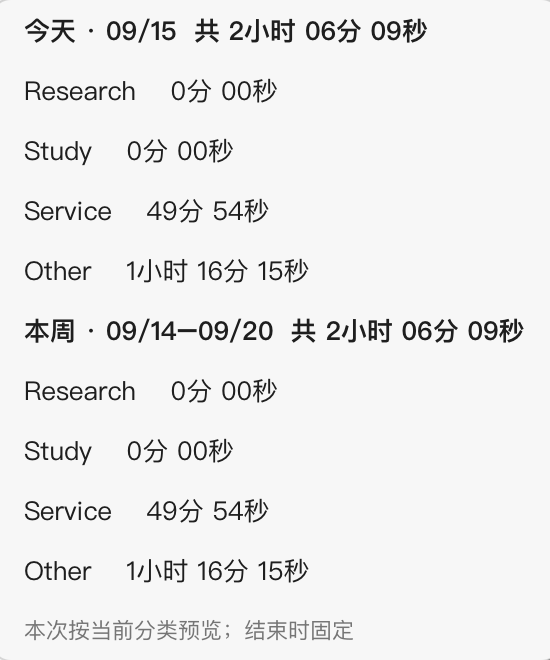
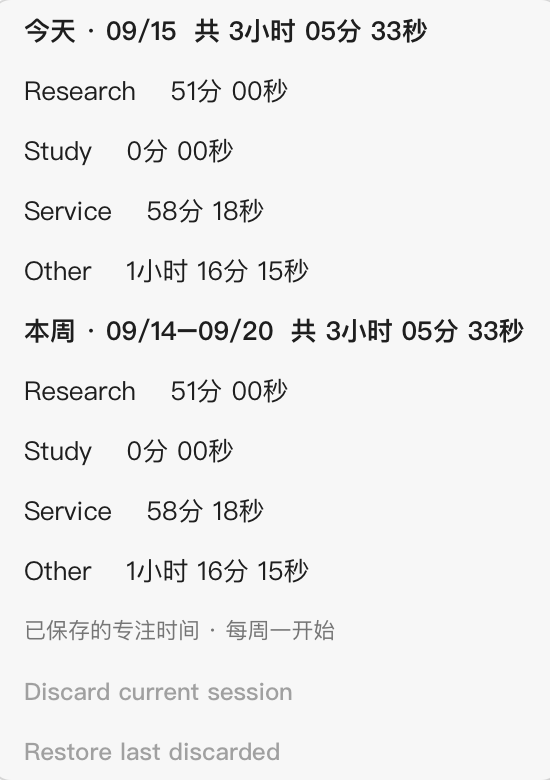
Save paused timers on right click and make discarded sessions recoverable

diff --git a/plugins/timer.py b/plugins/timer.py
@@ -66,6 +66,7 @@ def connect(data=DATA):
     db = sqlite3.connect(data / 'focus.sqlite3', timeout=15)
     db.execute('CREATE TABLE IF NOT EXISTS state (id INTEGER PRIMARY KEY, value TEXT NOT NULL)')
     db.execute('CREATE TABLE IF NOT EXISTS sessions (id INTEGER PRIMARY KEY, day TEXT NOT NULL, category TEXT NOT NULL, seconds INTEGER NOT NULL)')
+    db.execute('CREATE TABLE IF NOT EXISTS discarded_sessions (id INTEGER PRIMARY KEY, discarded_at INTEGER NOT NULL, state_json TEXT NOT NULL, restored_at INTEGER)')
     return db
 
 
@@ -97,8 +98,48 @@ def total_elapsed(state, now):
     return state['elapsed'] + (max(0, now - state['anchor']) if running(state) else 0)
 
 
+def write_session(db, state):
+    """Commit the stored working intervals using the session's final category."""
+    totals = {}
+    for day, _, seconds in state['pending']:
+        totals[day] = totals.get(day, 0) + seconds
+    db.executemany('INSERT INTO sessions(day,category,seconds) VALUES(?,?,?)',
+                   [(day, state['category'], sec) for day, sec in totals.items() if sec > 0])
+
+
+def reset(state):
+    category = state['category']
+    state.clear()
+    state.update(fresh(category))
+
+
+def save_session(db, state, now):
+    settle(state, now)
+    write_session(db, state)
+    reset(state)
+
+
+def discard_session(db, state, now):
+    if state['mode'] == 'idle':
+        return False
+    pause(state, now)
+    db.execute('INSERT INTO discarded_sessions(discarded_at,state_json) VALUES(?,?)',
+               (now, json.dumps(state)))
+    reset(state)
+    return True
+
+
+def restore_last_discarded(db, now):
+    row = db.execute('SELECT id,state_json FROM discarded_sessions WHERE restored_at IS NULL ORDER BY id DESC LIMIT 1').fetchone()
+    if not row:
+        return False
+    write_session(db, json.loads(row[1]))
+    db.execute('UPDATE discarded_sessions SET restored_at=? WHERE id=?', (now, row[0]))
+    return True
+
+
 def transition(db, state, now, name, sender, button='left', closed=False):
-    """Return (saved, sound). Caller commits state and saved rows together."""
+    """Return (refresh_focus, sound). State/history changes commit together."""
     saved = False
     # Wake must be processed before clicks/ticks so sleep cannot enter the ledger.
     if sender == 'system_woke' and running(state):
@@ -106,7 +147,11 @@ def transition(db, state, now, name, sender, button='left', closed=False):
     elif sender == 'system_will_sleep' or closed:
         pause(state, now)
 
-    if name.startswith('timer_category.') and sender == 'mouse.clicked':
+    if name == 'focus.discard' and sender == 'mouse.clicked':
+        saved = discard_session(db, state, now)
+    elif name == 'focus.restore' and sender == 'mouse.clicked':
+        saved = restore_last_discarded(db, now)
+    elif name.startswith('timer_category.') and sender == 'mouse.clicked':
         category = name.split('.', 1)[1]
         if category in CATEGORIES:
             # The selection applies to the whole open session, fixed on save.
@@ -122,23 +167,12 @@ def transition(db, state, now, name, sender, button='left', closed=False):
             if button == 'left':
                 state.update(mode=mode.removesuffix('_paused'), anchor=now)
             elif button == 'right':
-                category = state['category']
-                state.clear()
-                state.update(fresh(category))
+                save_session(db, state, now)
+                saved = True
         elif button == 'right':
             pause(state, now)
         elif button == 'left' and (mode != 'down' or total_elapsed(state, now) >= POMO):
-            settle(state, now)
-            # Keep the actual dates, but freeze the final category for every part.
-            # Ignoring pending category tags also supports pre-update open sessions.
-            totals = {}
-            for day, _, seconds in state['pending']:
-                totals[day] = totals.get(day, 0) + seconds
-            db.executemany('INSERT INTO sessions(day,category,seconds) VALUES(?,?,?)',
-                           [(day, state['category'], sec) for day, sec in totals.items() if sec > 0])
-            category = state['category']
-            state.clear()
-            state.update(fresh(category))
+            save_session(db, state, now)
             saved = True
 
     sound = False
@@ -242,6 +276,15 @@ def render_stats(db, state, now, sender):
             args += ['--set', f'focus.{period}.{cat}', f'label={label}    {human(totals[period][cat])}']
     note = '本次按当前分类预览；结束时固定' if state['mode'] != 'idle' else '已保存的专注时间 · 每周一开始'
     args += ['--set', 'focus.note', f'label={note}']
+    last = db.execute('SELECT state_json FROM discarded_sessions WHERE restored_at IS NULL ORDER BY id DESC LIMIT 1').fetchone()
+    restore_label = 'Restore last discarded'
+    if last:
+        discarded = json.loads(last[0])
+        restore_label += f" · {CATEGORIES[discarded['category']]} {duration(discarded['elapsed'])}"
+    args += ['--set', 'focus.restore', f'label={restore_label}',
+             f'label.color={"0xff1e1e1e" if last else "0x661e1e1e"}',
+             '--set', 'focus.discard',
+             f'label.color={"0xffa33b32" if state['mode'] != 'idle' else "0x661e1e1e"}']
     if sender == 'mouse.clicked':
         bar('--set', 'timer_category', 'popup.drawing=off')
         current = json.loads(subprocess.check_output(['sketchybar', '--query', 'focus']))
@@ -290,6 +333,8 @@ def main():
             bar('--set', 'timer_category', f'popup.drawing={"toggle" if sender == "mouse.clicked" else "off"}')
         elif name.startswith('timer_category.'):
             bar('--set', 'timer_category', 'popup.drawing=off')
+        if name in ('focus.discard', 'focus.restore'):
+            bar('--set', 'focus', 'popup.drawing=off', 'update_freq=0')
         if saved:
             env = dict(os.environ, NAME='focus', SENDER='timer_saved')
             subprocess.run([str(CONFIG / 'plugins/focus.sh')], env=env, check=True)

diff --git a/tests/test_timer.py b/tests/test_timer.py
@@ -51,7 +51,7 @@ class TimerTests(unittest.TestCase):
         self.event(0)
         self.event(60, 'timer_category.social')
         self.event(120, button='right')
-        self.event(121, button='right')
+        self.event(121, 'focus.discard')
         self.assertEqual(sum(self.totals(121)['week'].values()), 0)
 
     def test_midnight_and_monday_live_then_saved(self):
@@ -180,6 +180,55 @@ class TimerTests(unittest.TestCase):
         self.event(30)
         self.assertEqual(list(self.db.execute('SELECT category,seconds FROM sessions')),
                          [('social', 150)])
+
+    def test_paused_right_click_saves_for_all_timer_modes(self):
+        for mode, seconds in [('up', 60), ('down', 60), ('overtime', 1560)]:
+            with self.subTest(mode=mode):
+                self.s = t.fresh('course')
+                self.s.update(mode=mode, anchor=self.now)
+                self.event(seconds, button='right')
+                self.assertTrue(self.s['mode'].endswith('_paused'))
+                self.event(seconds + 30, button='right')
+                self.assertEqual(self.s['mode'], 'idle')
+                self.assertEqual(self.db.execute('SELECT seconds FROM sessions ORDER BY id DESC LIMIT 1').fetchone()[0], seconds)
+        self.assertEqual(self.db.execute('SELECT count(*) FROM discarded_sessions').fetchone()[0], 0)
+
+    def test_discard_restore_is_persistent_and_does_not_replace_active_timer(self):
+        self.event(0)
+        self.event(60, 'timer_category.social')
+        self.event(120, 'focus.discard')
+        self.assertEqual(self.s['mode'], 'idle')
+        self.assertEqual(sum(self.totals(120)['day'].values()), 0)
+        self.db.close()
+        self.db = t.connect(self.path)
+        self.s = t.load(self.db, self.now + 121)
+        self.event(130, 'timer_category.course')
+        self.event(140)
+        self.event(150, 'focus.restore')
+        self.assertEqual(self.s['mode'], 'up')
+        self.assertEqual(self.s['category'], 'course')
+        self.assertEqual(self.totals(150)['day']['social'], 120)
+        self.assertEqual(self.totals(150)['day']['course'], 10)
+        self.event(151, 'focus.restore')
+        self.assertEqual(self.totals(151)['day']['social'], 120)
+
+    def test_restore_discard_preserves_dates_and_final_category(self):
+        self.now = stamp('2026-09-13T23:59:00')
+        self.event(0)
+        self.event(90, 'timer_category.course')
+        self.event(120, 'focus.discard')
+        self.event(240, 'focus.restore')
+        self.assertEqual(list(self.db.execute('SELECT day,category,seconds FROM sessions')),
+                         [('2026-09-13', 'course', 60), ('2026-09-14', 'course', 60)])
+
+    def test_discard_transaction_rolls_back_archive_and_reset(self):
+        self.event(0)
+        with self.assertRaises(RuntimeError):
+            with self.db:
+                t.transition(self.db, self.s, self.now + 60, 'focus.discard', 'mouse.clicked')
+                raise RuntimeError('simulated failure')
+        self.assertEqual(t.load(self.db, self.now)['mode'], 'up')
+        self.assertEqual(self.db.execute('SELECT count(*) FROM discarded_sessions').fetchone()[0], 0)
 
     def test_transaction_rolls_back_save_and_state_together(self):
         self.event(0)

diff --git a/README.md b/README.md
@@ -25,9 +25,17 @@ A minimal macOS status bar with a categorized stopwatch, Pomodoro timer, daily/w
 | 空闲 | 开始正计时 | 开始 25 分钟番茄钟 |
 | 正计时 / 番茄超时 | 保存并结束 | 暂停 |
 | 番茄倒计时 | 继续计时 | 暂停 |
-| 暂停 | 继续 | 丢弃本次全部计时 |
+| 暂停 | 继续 | 保存并结束 |
 
 番茄钟到时播放提示音，随后显示超时长度，保存时包含前 25 分钟。合盖或系统休眠自动暂停，唤醒后手动继续。重载配置保留状态；重启电脑后恢复为暂停并排除关机时间。
+
+## 误操作与恢复
+
+暂停后右键会保存并结束，包括尚未满 25 分钟的番茄钟。丢弃操作移到了累计时长弹窗底部的 **Discard current session**，丢弃前会把本次记录存入本地回收记录。
+
+若误丢弃，点击累计时长，再点击 **Restore last discarded**：最近一条尚未恢复的记录会按原日期、时长和最终类别补回统计，正在进行的计时不受影响。回收记录保存在 `data/focus.sqlite3`，重载或重启后仍可恢复；再次点击可依次恢复更早的记录，同一条记录不会重复入账。
+
+此功能从本版本开始保留回收记录；更早版本的丢弃记录只能尝试从备份或数据库残留恢复，不能保证找回。
 
 ## 当天 / 本周统计
 
@@ -48,7 +56,7 @@ A minimal macOS status bar with a categorized stopwatch, Pomodoro timer, daily/w
 
 ## 实测范围
 
-在 macOS 26.5 / SketchyBar 2.24.0 上加载验证；15 项自动化计时测试通过。已实测桌面、显示器和前台应用切换事件关闭分类与统计弹窗，并停止统计弹窗轮询。合盖和休眠逻辑有自动化覆盖，尚未做真实合盖测试。
+在 macOS 26.5 / SketchyBar 2.24.0 上加载验证；19 项自动化计时测试通过。已实测桌面、显示器和前台应用切换事件关闭分类与统计弹窗，并停止统计弹窗轮询。合盖和休眠逻辑有自动化覆盖，尚未做真实合盖测试。
 
 ## 安装
 
